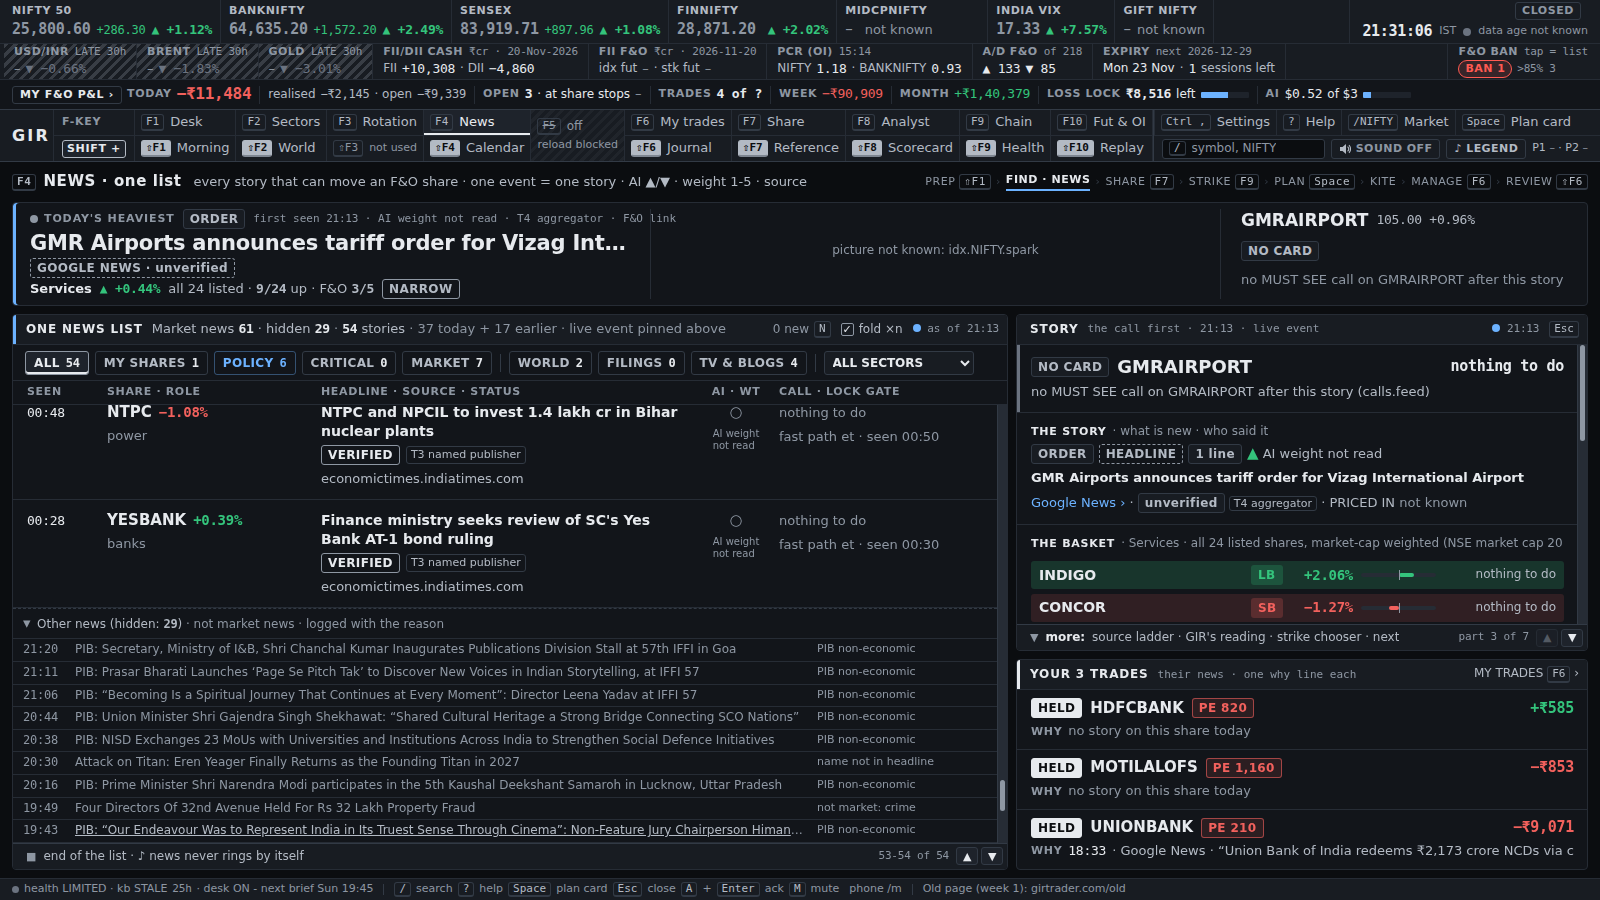
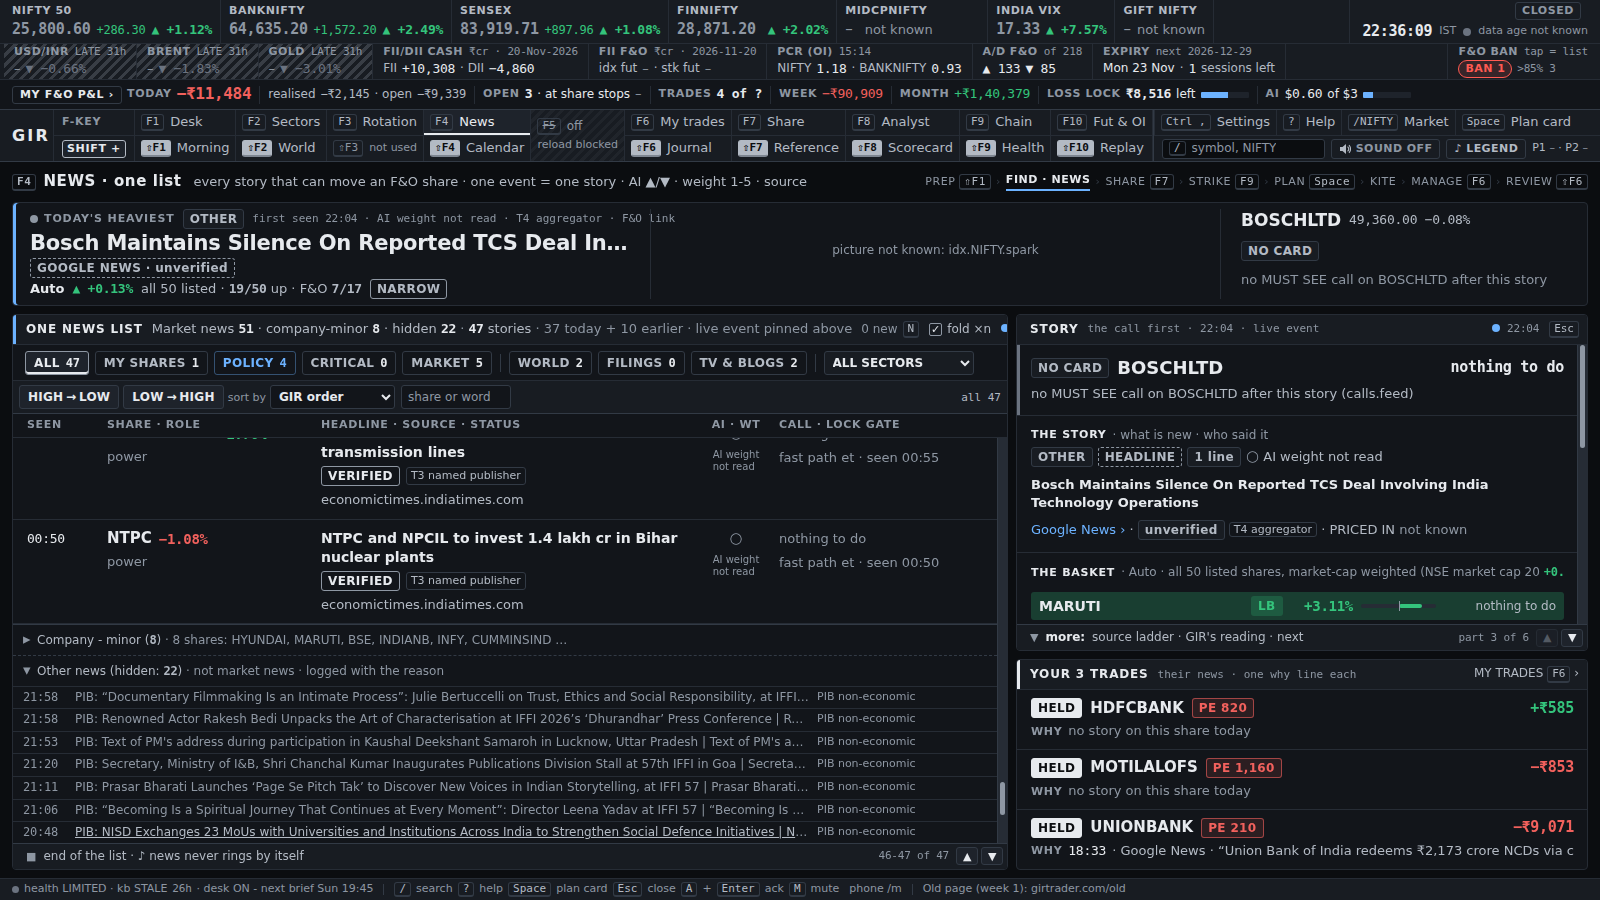
monday: 22:38 news gate: F&O names never hidden, company-minor lane live

diff --git a/intraday_patches/monday/NEWS_REPLAY_20NOV.md b/intraday_patches/monday/NEWS_REPLAY_20NOV.md
@@ -1,5 +1,41 @@
 # NEWS REPLAY - Friday 20 Nov 2026 through the v2 news path
 
+## CARDING REPLAY after the 22:05 and 22:35 changes (made Sat 21 Nov 22:37 IST)
+
+**Critical items carded in time: 10 of 10 with the desk running all day (A); 4 of 10 from the real 19:23 start (B).**
+Earlier tonight: 7 of 10 / 4 of 10. Friday's live desk: 0 of 10.
+
+- **In time** = a desk card within 10 minutes of GIR's first sight (overnight items: also before the next 09:15 open).
+- **(A)** the v2 desk with tonight's code running all day Fri 20 Nov from 00:00 on the same recorded tape; weekend slow mode only after the evening brief (20:00) as the trader decided at 22:35. **(B)** the real start Fri 19:23.
+- **$0, no AI:** a card counts when CODE makes it (RBI operations >= Rs 25,000 cr; a big mover's investor-meet filing) or when the live readers actually carded the same story when they read it (recorded answer). No recorded answer = not counted.
+- **No Google News** (item 4): rows that came via news.google.com are removed. IndusInd's two Google-News copies drop out; it is now seen through **the NSE filing 'Schedule of analysts / institutional investors meet', Fri 18:41:41** (confirmed from NSE's own announcement list; v2 filings logged it at 18:41 in filings_lag.jsonl - the row text itself was lost in the 22:10 truncation).
+
+| # | Item | First seen | How it is carded | Card (A) | In time (A) | Card (B) | In time (B) | Why not |
+|---|---|---|---|---|---|---|---|---|
+| 1 | RBI VRR result 10:20 | Fri 10:28 (ext:bonds) | code card (item 1: RBI op >= Rs 25,000 cr) + one Trade now line; gate PASS; facts 3-day VRR result for Fri 20 Nov / Allotted Rs 50,003 cr / Offered Rs 50,000 cr / Bids Rs 112,555 cr (2.25x cover) | Fri 10:29 | yes | - | no | shocknews seeds silently at desk start: a release seen before 19:23 gets no code card |
+| 2 | Second VRR notice 12:35 | Fri 12:43 (ext:bonds) | code card (item 1: RBI op >= Rs 25,000 cr) + one Trade now line; gate PASS; facts 3-day VRR notice for Fri 20 Nov / Size Rs 25,000 cr / Bids window 12:45-13:15 / Money lent to the banks | Fri 12:44 | yes | - | no | shocknews seeds silently at desk start: a release seen before 19:23 gets no code card |
+| 3 | Second VRR result 13:40 | Fri 13:43 (ext:bonds) | code card (item 1: RBI op >= Rs 25,000 cr) + one Trade now line; gate PASS; facts 3-day VRR result for Fri 20 Nov / Allotted Rs 25,007 cr / Offered Rs 25,000 cr / Bids Rs 48,040 cr (1.92x cover) | Fri 13:44 | yes | - | no | shocknews seeds silently at desk start: a release seen before 19:23 gets no code card |
+| 4 | 4-day VRR notice 19:25 | Fri 19:32 (ext:regs) | code card (item 1: RBI op >= Rs 25,000 cr) + one Trade now line; gate PASS; facts 4-day VRR notice for Mon 23 Nov / Size Rs 50,000 cr / Bids window 09:30-10:00 / Money lent to the banks | Fri 19:33 | yes | Fri 19:33 | yes |  |
+| 5 | Nvidia SEC probe (Reuters) | Sat 00:46 (ext:fjuice) | item 2: hot top-tier headline (Securities and Exchange Commission probe into NVIDIA is exploring potential acco) -> R5 read at once from the SHOCK bucket + free code line; recorded answer: Sat 18:21 R5: Nvidia falls on a | Sat 00:47 | yes | Sat 00:47 | yes |  |
+| 6 | Anthropic IPO slide | Fri 19:33 (ext:world) | R5 path (weekend slow mode at 19:33: OFF - 22:35 rule: slow mode only after the evening brief); recorded answer: Fri 21:41 R5: Anthropic shares slide after listing as gold breaks lower; read for gold-linked India name | Fri 19:34 | yes | Fri 19:34 | yes |  |
+| 7 | US close S&P -3.7% / Nasdaq -5.3% | Sat 02:35 (ext:fjuice) | item 2: hot top-tier headline (S&P 500, Dow Jones close in correction territory) -> R5 read at once from the SHOCK bucket + free code line; recorded answer: Sat 07:59 R5: US indexes extend their fall as Nasdaq leads loss | Sat 02:36 | yes | Sat 02:36 | yes |  |
+| 8 | IndusInd roadshows | Fri 18:41 (v2 filings (NSE): Schedule of analysts/institutional investo) | code card (22:35: big mover + investor-meet filing): MOVER + INVESTOR MEET 18:41 IST: INDUSINDBK +8.6% today - filed: IndusInd Bank Limited has informed the Exchange about Schedule of analysts/institutional investors mee | Fri 18:42 | yes | - | no | (B) 18:41 is before the desk start (code alerts seed silently at start) |
+| 9 | CII summit FPI line (SEBI chairman) | Fri 11:33 (newsread:CNBC-TV18 Live Blog) | R2 path; the 11:33 live-blog line is a reader item now (22:35: top-tier live blog naming SEBI / FPI -> weight 3): yes; recorded answer: Fri 21:08 R4: SEBI opens consultation on reviewing extra disclosure rules for foreig | Fri 11:34 | yes | - | no | (B) desk not running at 11:33 |
+| 10 | Gold -4.7% | Fri 10:20 (newsread:WIRE) | R2 path (WIRE 10:20, Friday session = no slow mode); recorded answer: Fri 21:08 R5: Domestic gold falls sharply, with the karat rate slipping below the one lakh rupee mark | Fri 10:21 | yes | - | no | (B) desk not running at 10:20 |
+
+**What changed for the three late items:**
+- Anthropic slide: weekend slow mode now starts only after the evening brief (20:00), so at Fri 19:33 R5 reads at the normal pace -> 19:34.
+- CII FPI line: a top-tier live blog / TV-desk line (CNBC-TV18 / Moneycontrol / ET live blogs, ET Now, ANI) naming FPI / FII / RBI / SEBI / repo / rates / Fed / GDP / inflation / tariff / a mega-cap is a reader item at weight 3 even when the v2 news reader gave it 1 or none -> R2 at 11:34 (was 11:46).
+- IndusInd roadshows: a code card when a share moving 3% or more files an investor-meet / roadshow intimation (the likely 'why') -> 18:42.
+
+**Still not in time (B, real 19:23 start): 6 items** - RBI VRR result 10:20, second VRR notice 12:35, second VRR result 13:40, CII 11:33, gold 10:20 and IndusInd 18:41 were all first seen BEFORE the desk existed, so no card could come within 10 minutes of first sight; at start the code alerts deliberately do not replay old releases (no burst of stale lines).
+
+Per item: `NEWS_REPLAY_20NOV.json` -> `carding`.
+
+---
+
+*Below: the 22:21 carding replay and the 21:50 path replay (kept for the record).*
+
 ## CARDING REPLAY after the trader's 22:05 decisions (made Sat 21 Nov 22:21 IST)
 
 **Critical items carded in time: 7 of 10** if the desk had been running all day (A); **4 of 10** with the real desk start Fri 19:23 (B).

diff --git a/intraday_patches/monday/STATUS.md b/intraday_patches/monday/STATUS.md
@@ -2,7 +2,7 @@
 
 One row per checklist item (MONDAY_READY.md). Proof files are in this folder. An item without proof is NOT DONE.
 
-Last update: 22:32 IST
+Last update: 22:38 IST
 
 | item | status | note | proof | time |
 |---|---|---|---|---|
@@ -1043,3 +1043,4 @@ ANSWERED (desk 22:35): RBI lines stay LIVE on Telegram (rule 8) · Friday / week
 - 22:24 (server clock) - TWO INCIDENTS during that build (both repaired, BUILD_LOG rows): (1) 22:10 a NEW TEST ran against the LIVE feed files (it loaded the shock-news module before another test set its temporary folders): it emptied fjuice / world / uswrap_hot / wires / regs / circulars / filings and wrote 3 fake rows; R2 carded one of them at 22:12 - a FAKE 'RBI cuts repo rate by fifty basis points'. Checked by me: NOTHING reached Telegram (not in shocks.jsonl, not sent; last send 19:30), the fake card is deleted from the board and its mirror line, the fake rows and their newsmap / newsread entries removed. The 7 files were rebuilt from newsread.jsonl + newsread_drops.jsonl with desk / sources / filings / newsmap / newsread stopped and read positions set to the new ends, so nothing old was re-sent (fjuice 571, world 31, uswrap_hot 8, wires 114, regs 121, circulars 91, filings 92 rows) - each row marked 'restored'; their original source time / tags / text were NOT recoverable, so Friday-Saturday history in those files is thinner (pages and the Sunday brief read newer rows normally). The test is renamed test_trader2205.py and now uses temporary folders only; damaged copies + a board backup in archive/testleak_2210/. (2) the first filings rebuild used text times where the file uses epoch seconds: gir-v2filings crashed 22:19-22:21 and the watchdog sent the trader ONE phone alert 'gir-v2filings is down' - a repair side-effect, not a real outage; running since 22:22 (one retry after the alarm 22:23). LESSON for every builder: a test must never import a module that reads live paths before its temporary folders are set.
 - 22:31 (server clock) - DESK 20:10 DONE (sort / filter bar, one shared component pages/static/sortbar.js + .css; each page got one link + one script tag, no page code changed): sort test 72 PASS / 0 FAIL with real clicks at 1600 / 1366 / 390 + a run with browser storage blocked; test_pages clean on all 13 pages; 54 masked shots F_sort_shots/. HIGH -> LOW / LOW -> HIGH + 'sort by' with the list's own columns (share lists also Rs cr, RVOL, OI chg %, MWPL %, ATR %; a column with no value shows 'not known', not pickable); share-list chips ALL / UP · CE / DOWN · PE / F&O / near VWAP / in ban with counts + symbol box (UP / DOWN left out where the page has its own); header click sorts with an arrow; choice remembered per list (safe if storage empty / blocked); count '22 of 218'; sticky bar + column names; phone = one swipeable row of chips; default 'GIR order'. DONE: F2 movers + sector board; F1 sectors, F&O movers, members, in-a-trade list; F3 windows; sector drill-down (F2 / F3); F4 news; F10 build-up (full F&O list) + MWPL ban list; scorecard 'what moved'; Shift+F6 every trade; morning movers; phone movers sheet; reference other names; F6 positions when 4+. Wired but no bar tonight (it shows from 2 rows): F1 action cards, F1 in-a-trade actions, F8 decisions, scorecard call log (F1 + F8 proved with 3 injected cards). NOT DONE (named): F6 cards for 1-3 positions (all on screen; a bar broke the card slots); F6 'Trades today' fixed box (sortable list is Shift+F6); reference sector-map accordion (closed sectors not drawn - F10 is the sortable F&O list); phone NOW / CALL / ALERTS. KNOWN: F2 movers draws the top 20 of the chosen side, so sort / filter act on those 20 (full list on F10). REGRESSION being fixed by the layout builder now: F1 Sectors at 1366 shows only the first sector (cut) with the bars; F1 in-a-trade list ~2 rows at 1366; F3 first sector name runs past its cell at 1366.
 - 22:32 (server clock) - DESK 22:35 read: incident verdict accepted; BUILDING NOW: (1) GIR_TEST_ROOT guard - every test refuses to start unless it points to a temp folder and the module reports that root; live-store writers raise while it is set; (2) a card is rejected if its source row has no real source id / URL / fetch time; (3) no test touches live stores Mon-Fri 09:00-15:35; (4) gir-v2filings 22:21 P1: back up since 22:22; cause = my builder's repair rewrote filings.jsonl with text times where epoch seconds are expected, so it crashed in a loop 22:19-22:21 (an unplanned crash from a bad repair, not a planned stop) - adding a MAINTENANCE flag so a planned stop never raises a P1. No python test runs anywhere until (1) lands. Also building the answers: slow mode after the 19:45 brief + the 3 late replay items (CII live blog weight, IndusInd source, Anthropic) then a new replay count; news gate 'company - minor' lane.
+- 22:38 (server clock) - DESK 22:35 NEWS GATE ANSWER DONE (live, gir-preview 22:34): an item naming an F&O company is NEVER hidden; non-market company items go to a folded 'Company - minor (n)' lane - on the news page at the bottom grouped under each share, on the share page under STORIES. Live: Market news 51 · company-minor 8 · hidden 22 (minor: HYUNDAI car page, MARUTI used car, BSE fund quote, INDIANB exam syllabus, INFY prize, CUMMINSIND contest, SBIN frozen account, TCS protest; hidden = 19 non-economic PIB items, 2 mis-tagged names, 1 property-fraud arrest - none names an F&O company). Scorecard adds a minor count (today's hidden 169 / 'hidden but naming F&O' 22 are inflated by the switch-over - rows logged before 22:33; from now 0). Fallout of the Google News stop fixed: the 'wire Google News' health row removed (it showed STALE because it is stopped on purpose), and the source-silence alarm skips audit rows whose only host is news.google.com (else a SILENT alarm from Mon 07:00) - loads at the next gir-v2desk restart (done once the guard + slow-mode builds land, before Mon 07:00). HTTP-only page check 1600 / 1366 / 390: 0 errors, 0 minor / hidden headlines in the main list. Python unit tests updated, NOT run yet (waiting for the test guard, per the desk). Host-level block of news.google.com: not done (refused by the permission system, not needed - every code path is stopped).
